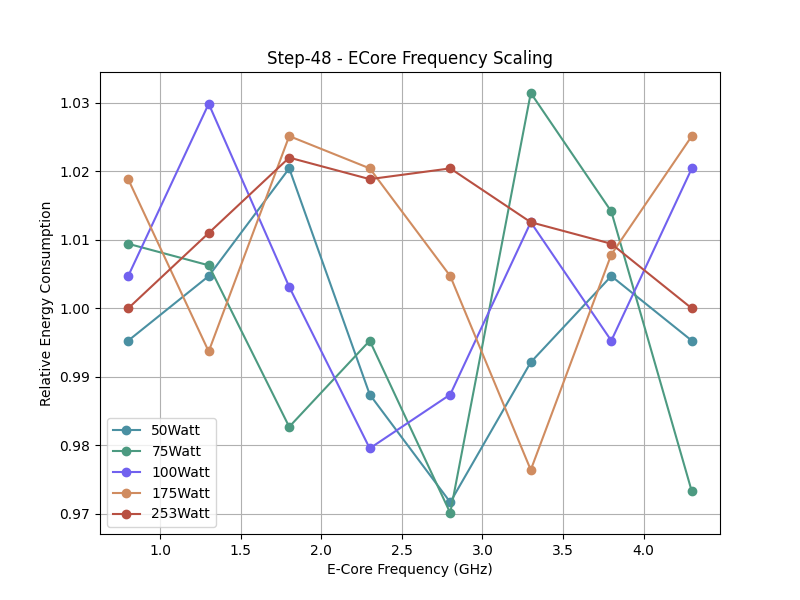
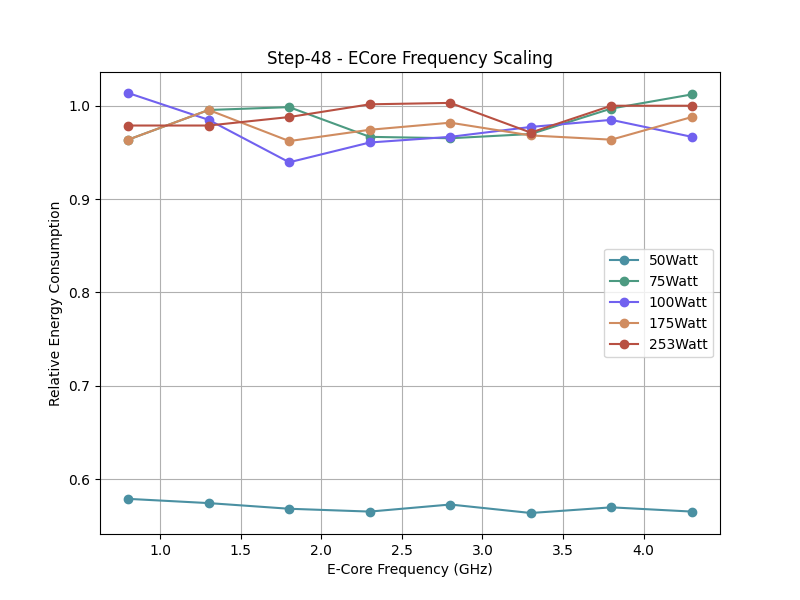
retook values for step-48 (CPU-Frequency Scaling) and updated the plots

diff --git a/CPUFrequency.py b/CPUFrequency.py
@@ -10,7 +10,7 @@ jump_conn = Connection(jump_host)
 dest_conn = Connection(dest_host, gateway=jump_conn)
 
 # Configuration
-filename = "Step-37"
+filename = "Step-48"
 path = f"/u/home/vit/dealii/examples/{filename.lower()}/Evaluations/CPUFrequency/"
 directories = ["50Watt/", "75Watt/", "100Watt/", "175Watt/", "253Watt/"]
 

diff --git a/PowerCapping.py b/PowerCapping.py
@@ -2,7 +2,7 @@ from fabric import Connection
 import re
 import numpy as np
 import PlotData as plot
-import PowerCappingTable as table
+import CreateTable as table
 
 jump_host = f"vit@login.caps.in.tum.de"
 dest_host = f"vit@regale.caps.in.tum.de"
